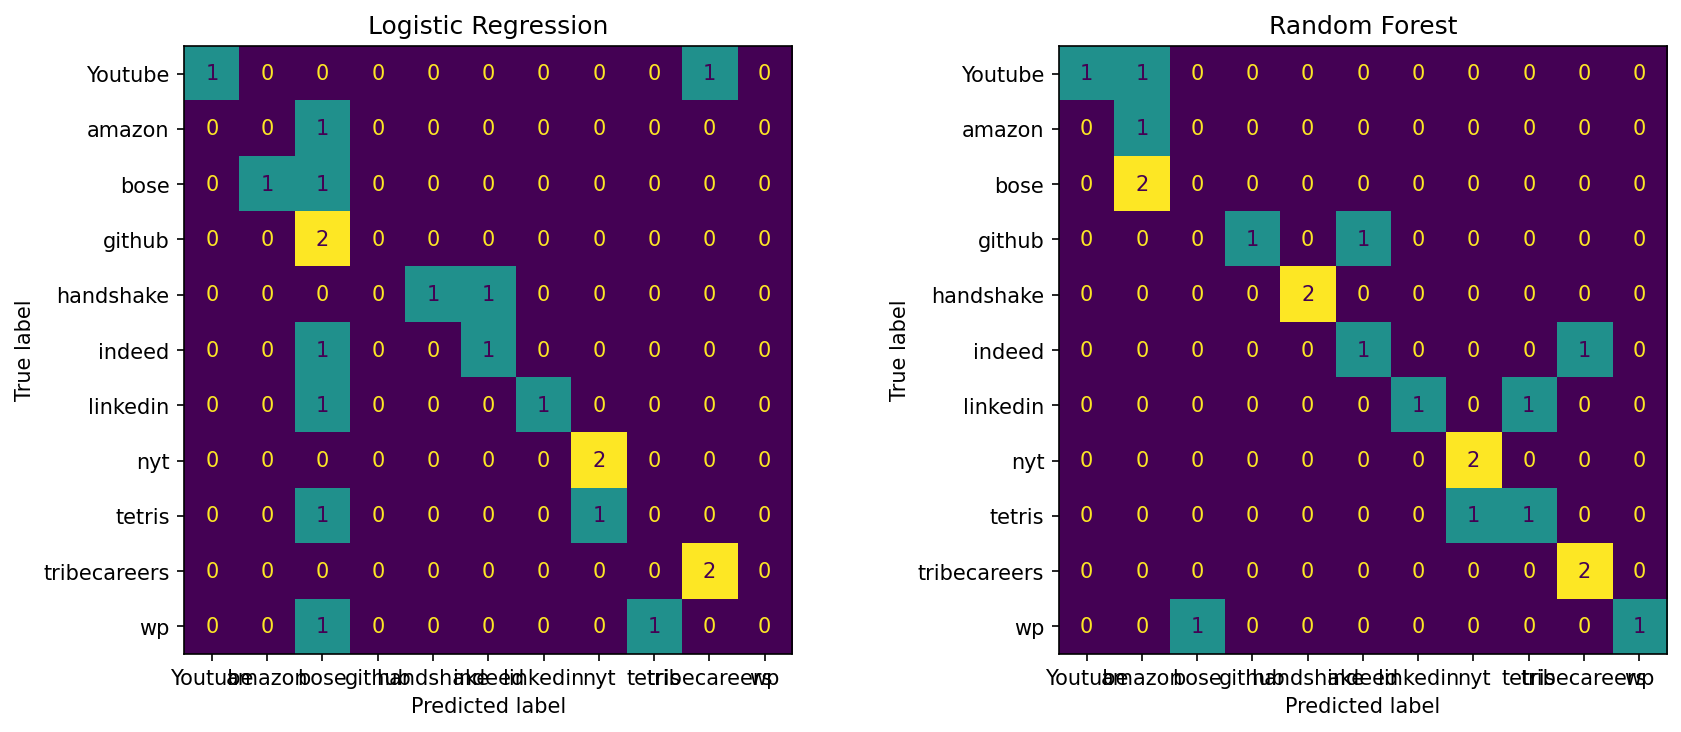
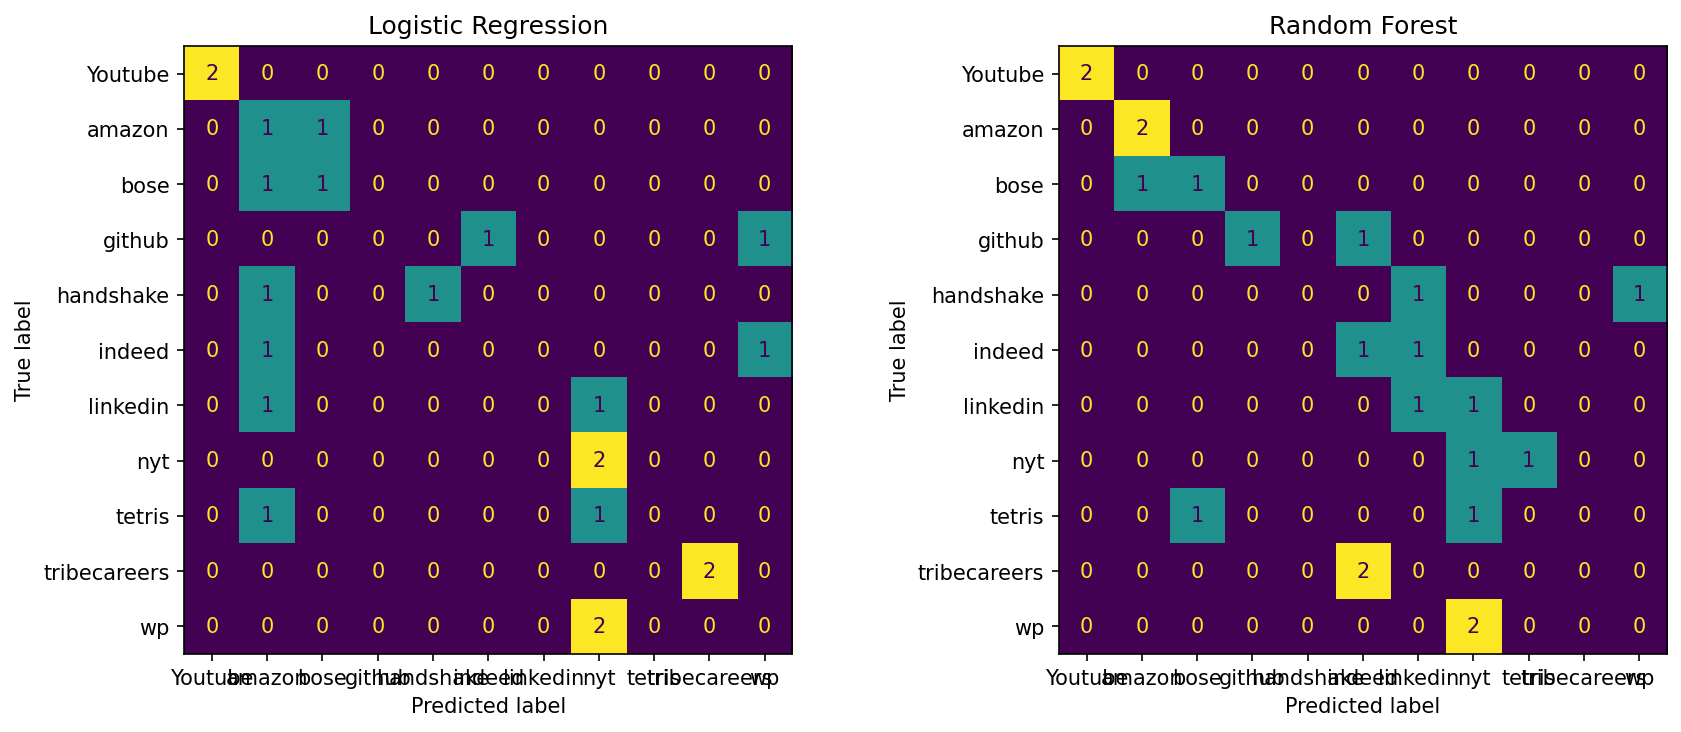
Added files for several websites.

diff --git a/src/joe.py b/src/joe.py
@@ -1,0 +1,104 @@
+import pandas as pd
+import numpy as np
+import os
+import pyshark
+
+from sklearn.model_selection import KFold
+from sklearn.linear_model import LogisticRegression
+from sklearn.tree import DecisionTreeClassifier
+from sklearn.ensemble import RandomForestClassifier
+from sklearn.metrics import accuracy_score, f1_score
+
+
+def extract_features_pcap(file, label):
+	print(file)
+	cap = pyshark.FileCapture(f'./data/raw/{file}', keep_packets=False)
+
+	times = []
+	lengths = []
+
+	for pkt in cap:
+		try:
+			times.append(float(pkt.sniff_timestamp))
+			lengths.append(int(pkt.length))
+		except:
+			continue
+
+	cap.close()
+
+	intervals = np.diff(times) if len(times) > 1 else []
+
+	return {
+		"packet_count": len(times),
+		"total_length": np.sum(lengths) if lengths else 0,
+		"avg_interval": np.mean(intervals) if len(intervals) > 0 else 0,
+		"max_interval": np.max(intervals) if len(intervals) > 0 else 0,
+		"min_interval": np.min(intervals) if len(intervals) > 0 else 0,
+		"avg_length": np.mean(lengths) if lengths else 0,
+		"max_length": np.max(lengths) if lengths else 0,
+		"min_length": np.min(lengths) if lengths else 0,
+		"most_common_length": pd.Series(lengths).mode()[0] if lengths else 0,
+		"label": label
+	}
+
+
+data = []
+
+files = os.listdir('./data/raw')
+
+for file in files:
+	if file.endswith(".pcapng"):
+		# Extract label from filename (before underscore)
+		label = file.split("_")[0].lower()
+		data.append(extract_features_pcap(file, label))
+
+
+df = pd.DataFrame(data)
+
+print("Dataset Preview:")
+print(df)
+print("\nTotal samples:", len(df))
+
+
+X = df.drop("label", axis=1)
+y = df["label"]
+
+
+models = {
+	"Logistic Regression": LogisticRegression(max_iter=1000),
+	"Decision Tree": DecisionTreeClassifier(),
+	"Random Forest": RandomForestClassifier()
+}
+
+
+kf = KFold(n_splits=5, shuffle=True, random_state=42)
+
+results = {}
+
+for name, model in models.items():
+	acc_scores = []
+	f1_scores = []
+
+	for train_idx, test_idx in kf.split(X):
+		X_train, X_test = X.iloc[train_idx], X.iloc[test_idx]
+		y_train, y_test = y.iloc[train_idx], y.iloc[test_idx]
+
+		model.fit(X_train, y_train)
+		preds = model.predict(X_test)
+
+		acc_scores.append(accuracy_score(y_test, preds))
+		f1_scores.append(f1_score(y_test, preds, average='macro'))
+
+	results[name] = {
+			"accuracy": np.mean(acc_scores),
+			"f1": np.mean(f1_scores)
+	}
+
+
+print("\nFINAL RESULTS:\n")
+
+for model_name, scores in results.items():
+	print(f"{model_name}:")
+	print(f" 	Accuracy: {scores['accuracy']:.4f}")
+	print(f" 	F1 Score: {scores['f1']:.4f}")
+	print()